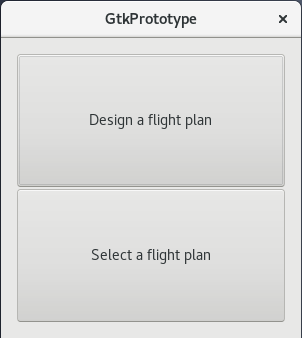
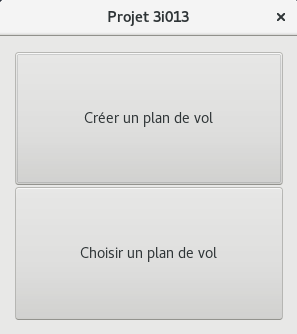
maj GUI + schema gui.png

Changed region(s): [[0.0, 0.0, 1.0, 1.0], [0.2727, 0.3293, 0.7273, 0.3892], [0.2727, 0.7186, 0.7273, 0.7784]]

diff --git a/Prototypes/GUI/ihm.c b/Prototypes/GUI/ihm.c
@@ -7,17 +7,18 @@
 
 int main(int argc, char *argv[]){
 
+    /* opens a new tab and load the flight plan designer in your web browser */
     void button_clicked(){
         if(fork() == 0){
-            printf("Openning the flight plan app in a new web browser tab!\n\n");
+            printf("Ouverture de l'application de création de plan de vol dans un nouvel onglet de votre moteur de recherche !\n\n");
             execlp("xdg-open","xdg-open","plan_de_vol.html", NULL);
             perror("execlp");
         }
     }
-
+    /* opens a dialog window where you can choose a file print the path of the file */
     void open_dialog(GtkWidget* button, gpointer window){
         GtkWidget *dialog;
-        dialog = gtk_file_chooser_dialog_new("Chosse a file", GTK_WINDOW(window), GTK_FILE_CHOOSER_ACTION_OPEN, GTK_STOCK_OK, GTK_RESPONSE_OK, GTK_STOCK_CANCEL, GTK_RESPONSE_CANCEL, NULL);
+        dialog = gtk_file_chooser_dialog_new("Coisissez un plan de vol", GTK_WINDOW(window), GTK_FILE_CHOOSER_ACTION_OPEN, GTK_STOCK_OK, GTK_RESPONSE_OK, GTK_STOCK_CANCEL, GTK_RESPONSE_CANCEL, NULL);
         gtk_widget_show_all(dialog);
         //  gtk_file_chooser_set_current_folder(GTK_FILE_CHOOSER(dialog),"/");
         gtk_file_chooser_set_current_folder(GTK_FILE_CHOOSER(dialog), g_get_home_dir());
@@ -26,37 +27,47 @@ int main(int argc, char *argv[]){
             g_print("%s\n", gtk_file_chooser_get_filename(GTK_FILE_CHOOSER(dialog)));
         }
         else{
-            g_print("You pressed Cancel\n");
+            g_print("Vous avez annulé la sélection de fichier\n");
         }
         gtk_widget_destroy(dialog);
     }
 
 
     /* defining gtk variables */   
-    GtkWidget *window, *button1, *button2, *dialog;
+    GtkWidget *window, *button1, *button2, *dialog, *vbox, *hbox, *info;
     
     gtk_init(&argc, &argv);
     
     /* main window creation here */
     window = gtk_window_new(GTK_WINDOW_TOPLEVEL);
-    gtk_window_set_title(GTK_WINDOW(window), "GtkPrototype");
+    gtk_window_set_title(GTK_WINDOW(window), "Projet 3i013");
     gtk_window_set_default_size(GTK_WINDOW(window), 300, 300);
     gtk_container_set_border_width(GTK_CONTAINER(window), 15);
     gtk_window_set_position(GTK_WINDOW(window), GTK_WIN_POS_CENTER);
 
+    /* creation Vbox & Hbox */
+    vbox = gtk_vbox_new(TRUE, 0);
+    hbox = gtk_hbox_new(TRUE,0);
     /* creation a button to start the creation of a flight plan */
-    //button1 = gtk_button_new_with_label("Design a flight plan");
-    //gtk_widget_set_size_request(button1, 30, 30);
-    //g_signal_connect(G_OBJECT(button1), "clicked", G_CALLBACK(button_clicked), NULL);
+    button1 = gtk_button_new_with_label("Créer un plan de vol");
+    gtk_widget_set_size_request(button1, 30, 30);
+    g_signal_connect(G_OBJECT(button1), "clicked", G_CALLBACK(button_clicked), NULL);
 
     /* creation button selection flight plan */
-    button2 = gtk_button_new_with_label("Select a flight plan");
+    button2 = gtk_button_new_with_label("Choisir un plan de vol");
     gtk_widget_set_size_request(button2, 30, 30);
     g_signal_connect(G_OBJECT(button2), "clicked", G_CALLBACK(open_dialog), window);
 
+    /* creation label */
+    //WIP
+    //info = gtk_label_new("");
+    
     /* adding the widgets to the main window */
-    //gtk_container_add(GTK_CONTAINER(window), button1);
-    gtk_container_add(GTK_CONTAINER(window), button2);
+    gtk_box_pack_start(GTK_BOX(vbox), button1, TRUE, TRUE, 0);
+    gtk_box_pack_start(GTK_BOX(vbox), button2, TRUE, TRUE, 0);
+    gtk_box_pack_start(GTK_BOX(hbox), vbox, FALSE, TRUE, 0);
+    //gtk_box_pack_start(GTK_BOX(hbox), info, TRUE, TRUE, 0);
+    gtk_container_add(GTK_CONTAINER(window), hbox);
 
     gtk_widget_show_all(window);
     
